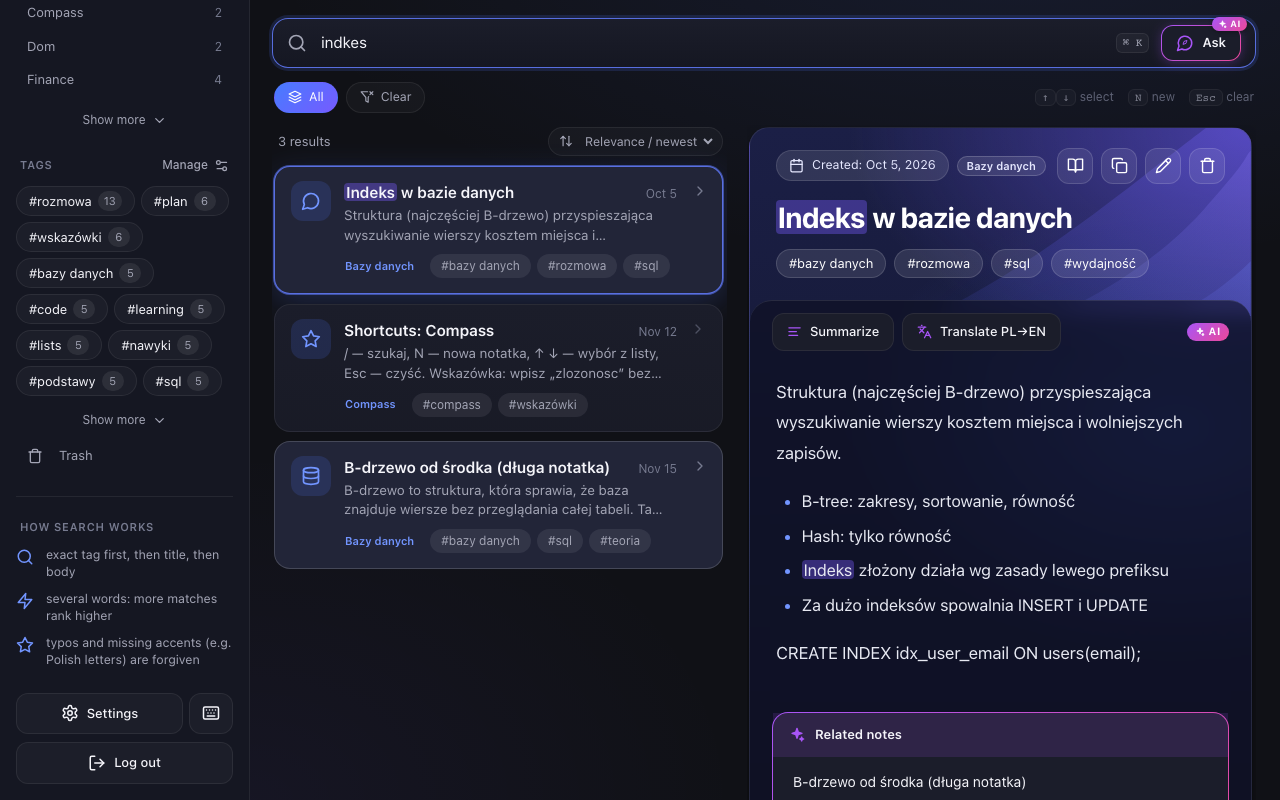
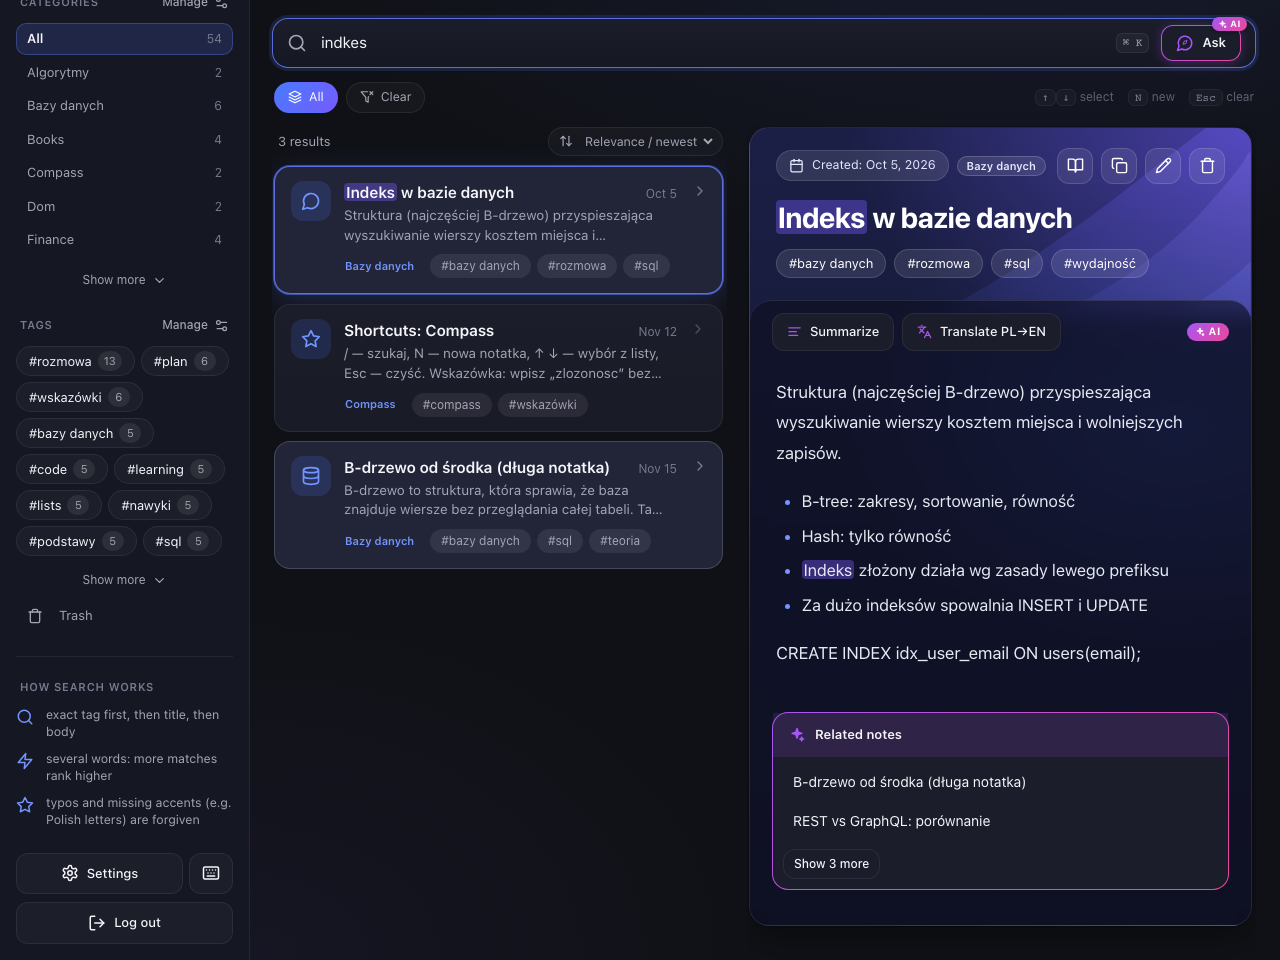
docs(readme): refresh screenshots at new height, use httpx2 in screenshots script

diff --git a/scripts/screenshots.py b/scripts/screenshots.py
@@ -42,14 +42,14 @@ from datetime import UTC, datetime, timedelta
 from http.server import BaseHTTPRequestHandler, ThreadingHTTPServer
 from pathlib import Path
 
-import httpx
+import httpx2 as httpx
 from playwright.sync_api import Page, expect, sync_playwright
 
 ROOT = Path(__file__).resolve().parent.parent
 
 # ===== A. CONFIG (edit) ==================================================================================
 OUT_DIR = ROOT / "docs" / "screenshots"
-VIEWPORT = {"width": 1280, "height": 800}
+VIEWPORT = {"width": 1280, "height": 960}
 LOCALE = "en-US"  # the browser language; many apps pick their UI language from it
 COLOR_SCHEME = "dark"  # "dark" | "light"; for apps that follow the OS theme
 PASSWORD = "screenshots"  # the login used below (steps/seed), set through ENV when the app needs one
